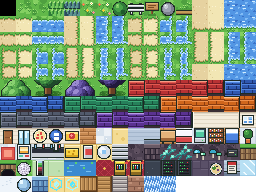
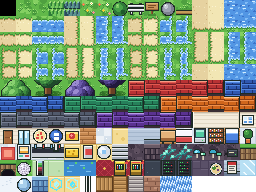
Ruta 3: vallas en los bordes de la montaña y escaleras bajo el camino hacia el césped de abajo
Claude-Session: https://claude.ai/code/session_018v1fAZrQHSEnPWssP3zxe4

Changed region(s): [[0.3125, 0.9062, 0.75, 1.0]]

diff --git a/src/game/world/maps.ts b/src/game/world/maps.ts
@@ -362,11 +362,11 @@ add(casa("casa-petri", "Casa de Ciudad Petri", { to: "ciudad-petri", x: 18, y: 1
   b.ascii([
     "%%%%%%%%**%%%%%%%%%%TTTTTTTTTTTTTTTTTTTTTTTT",
     "%%%%%%%%**%%%%%%%%%%TTTTTTTTTTTTTTTTTTTTTTTT",
-    "pppppppp~~ppppppppppTT.....k.........k....TT",
-    "pppppppp~~ppppppppppTT.f...k.........k....TT",
-    "pppppppp==ppppppppppTT.....k.........k....TT",
-    "pppppppp~~ppppppppppTT.....k.........k....TT",
-    "pppppppp~~ppppppppppTT.....k.........k....TT",
+    "pppppppp~~ppppppppp!TT.....k.........k....TT",
+    "pppppppp~~ppppppppp!TT.f...k.........k....TT",
+    "pppppppp==ppppppppp!TT.....k.........k....TT",
+    "pppppppp~~ppppppppp!TT.....k.........k....TT",
+    "pppppppp~~ppppppppp!TT.....k.........k....TT",
     "%%%%%%%%**%%%%%^%%%%TT.....k.........k....TT",
     "%%%%%%%%**%%%%%^%%%%.......lllllppllll....TT",
     "pppppppp~~pppppppppp....ggg.ggggppgggg....TT",
@@ -376,16 +376,16 @@ add(casa("casa-petri", "Casa de Ciudad Petri", { to: "ciudad-petri", x: 18, y: 1
     "pppppppp~~pppppppppplllpllllllllppllggggg.TT",
     "pppppppp~~ppppppppppppppppppppppppppgggggppp",
     "%%%%^%%%**%%%%%%%%%%ppppppppppppppppgggggppp",
-    "%%O%^%%%**%%%%%%%%%%TTkkkkkkkkkkkkkkggggg.TT",
-    "pppppppp~~ppppppppppTT............f.......TT",
-    "pppppppp~~ppppppppppTT....gggggggg..TT....TT",
-    "pppppppp~~ppppppppppTT....gggggggg..TT....TT",
-    "pppppppp~~ppppppppppTT....gggggggg......f.TT",
-    "pppppppp==ppppppppppTT..f.gggggggg........TT",
-    "pppppppp~~ppppppppppTT........TT......TT..TT",
-    "pppppppp~~ppppppppppTTgggg....TT...f..TT..TT",
-    "pppppppp~~ppppppppppTTgggg..f.............TT",
-    "pppppppp~~ppppppppppTTgggg................TT",
+    "%%O%^%%%**%%%%%%%%%%TTAAAA^AAAAAAAAAA^AAAATT",
+    "pppppppp~~ppppppppp!TT............f.......TT",
+    "pppppppp~~ppppppppp!TT....gggggggg..TT....TT",
+    "pppppppp~~ppppppppp!TT....gggggggg..TT....TT",
+    "pppppppp~~ppppppppp!TT....gggggggg......f.TT",
+    "pppppppp==ppppppppp!TT..f.gggggggg........TT",
+    "pppppppp~~ppppppppp!TT........TT......TT..TT",
+    "pppppppp~~ppppppppp!TTgggg....TT...f..TT..TT",
+    "pppppppp~~ppppppppp!TTgggg..f.............TT",
+    "pppppppp~~ppppppppp!TTgggg................TT",
     "%%%%%%%%**%%%%%%%%%%TTTTTTTTTTTTTTTTTTTTTTTT",
     "%%%%%%%%**%%%%%%%%%%TTTTTTTTTTTTTTTTTTTTTTTT",
   ]);

diff --git a/src/game/world/builder.ts b/src/game/world/builder.ts
@@ -57,7 +57,7 @@ export const LEGEND: Record<string, string> = {
   Y: "suelo_gimnasio", e: "estanteria", t: "mesa", c: "mostrador", P: "pc", b: "cama", n: "planta", a: "alfombra",
   i: "incubadora", B: "poyata", M: "microscopio", Q: "queso", C: "lata", K: "tanque", E: "escaleras", S: "cartel",
   H: "hielo", y: "nieve", U: "roca_hielo", R: "pared_hielo",
-  "=": "puente_h", "|": "puente_v", "^": "escalon", "%": "risco",
+  "=": "puente_h", "|": "puente_v", "^": "escalon", "%": "risco", "!": "valla_v",
   x: "suelo_casino", N: "suelo_tecnico", F: "suelo_torre", I: "placa_contaminada", J: "poster",
   u: "suelo_cueva", X: "pared_cueva", d: "disco_duro", A: "acantilado", O: "cueva_entrada", Z: "winogradsky", j: "suelo_invernadero",
 };
@@ -163,7 +163,7 @@ export function tileAt(m: MapDef, x: number, y: number, frame = 0): string {
   }
   if (ch === "~" || ch === "p" || ch === "s") {
     // vecinos que no llevan borde de césped: en la montaña, riscos, escalones, puentes y cascadas
-    const sinBorde = ch === "p" ? "%^=|*O~s" : ch === "~" ? "=|*%p" : ch === "s" ? "%^=|*O~p" : "";
+    const sinBorde = ch === "p" ? "%^=|*O~s!" : ch === "~" ? "=|*%p" : ch === "s" ? "%^=|*O~p" : "";
     const same = (xx: number, yy: number) => { const c = m.grid[yy]?.[xx]; return c === undefined || c === ch || sinBorde.includes(c) || (ch === "p" && (c.startsWith("@muro_puerta") || c === "@puerta_hd")); };
     const mask = (same(x, y - 1) ? 0 : 1) | (same(x + 1, y) ? 0 : 2) | (same(x, y + 1) ? 0 : 4) | (same(x - 1, y) ? 0 : 8);
     if (ch === "~") return `agua_${mask}_${frame % 64 < 32 ? 0 : 1}`;

diff --git a/src/game/gfx.ts b/src/game/gfx.ts
@@ -47,12 +47,12 @@ export class Gfx {
 
   /** Casilla de 16 px. Si se da su posición en el mapa (cx, cy) y hay terreno HD, usa la textura nueva
    *  (el cuarto que toca de su bloque de 2×2) y, para objetos sobre césped, césped HD debajo. */
-  tile(name: string, x: number, y: number, cx?: number, cy?: number) {
+  tile(name: string, x: number, y: number, cx?: number, cy?: number, suelo = "hierba") {
     if (cx !== undefined && cy !== undefined && IMG.terreno_hd) {
       const q = (((cx % 2) + 2) % 2) + (((cy % 2) + 2) % 2) * 2;
       const hd = TERR.index[`${name}#${q}`], obj = TERR.index[`obj:${name}`];
       if (hd !== undefined) { this.terr(hd, x, y); return; }
-      if (obj !== undefined) { this.terr(TERR.index[`hierba#${q}`], x, y); this.terr(obj, x, y); return; }
+      if (obj !== undefined) { this.terr(TERR.index[`${suelo}#${q}`] ?? TERR.index[`hierba#${q}`], x, y); this.terr(obj, x, y); return; }
     }
     const i = TILES[name];
     if (i === undefined) return;

diff --git a/src/game/scenes/overworld.ts b/src/game/scenes/overworld.ts
@@ -385,7 +385,9 @@ export class Overworld implements Scene {
         if (t === "hierba_oscura" && TILES[t] === undefined) t = "hierba";
       }
       if (t === "bloque" || t === "puerta_hd") t = "hierba";
-      g.tile(t, x * 16 - cx, y * 16 - cy, x, y);
+      // la valla de los bordes de la montaña va sobre la tierra de la terraza, no sobre césped
+      const tierra = t === "valla_v" && [[0, 1], [0, -1], [1, 0], [-1, 0]].some(([dx, dy]) => this.map.grid[y + dy]?.[x + dx] === "p");
+      g.tile(t, x * 16 - cx, y * 16 - cy, x, y, tierra ? "camino" : "hierba");
     }
     for (const [n, x, y] of trees) drawProp(g, n, x - 1, y - 2, 34);
     // objetos del suelo

diff --git a/tools/rutas/rutas_v2.py b/tools/rutas/rutas_v2.py
@@ -5,7 +5,7 @@ import json, sys
 from pathlib import Path
 from collections import deque
 
-SOLIDO = set("T%A~*klrSvO") | {"#"}
+SOLIDO = set("T%A~*klrSvO!") | {"#"}
 
 def lienzo(w, h, c="."): return [[c] * w for _ in range(h)]
 def fill(g, x, y, w, h, c):
@@ -87,10 +87,12 @@ def ruta3():
     fill(g, 20, 0, 24, 2, "T"); fill(g, 42, 0, 2, 28, "T"); fill(g, 20, 26, 24, 2, "T")
     fill(g, 20, 14, 24, 2, "p")                                           # camino principal hasta la salida este
     fill(g, 36, 13, 5, 4, "g")                                            # hierba densa justo antes de la salida
-    fill(g, 20, 13, 16, 1, "l"); fill(g, 20, 16, 16, 1, "k")
+    fill(g, 20, 13, 16, 1, "l"); fill(g, 22, 16, 20, 1, "A")              # el prado de abajo está más bajo
+    g[16][26] = "^"; g[16][37] = "^"                                      # escaleras para bajar al césped
     g[13][23] = "p"; g[13][32] = "p"; g[13][33] = "p"
     fill(g, 20, 2, 7, 11, ".")                                            # claro
     fill(g, 20, 2, 2, 6, "T"); fill(g, 20, 16, 2, 10, "T")
+    fill(g, 19, 2, 1, 5, "!"); fill(g, 19, 17, 1, 9, "!")                # vallas en el borde de las terrazas, junto a los árboles
     # casa con jardín vallado al noreste: la puerta queda en (32, 7)
     fill(g, 27, 2, 1, 7, "k"); fill(g, 37, 2, 1, 7, "k"); fill(g, 27, 8, 11, 1, "l"); g[8][32] = "p"; g[8][33] = "p"
     fill(g, 32, 9, 2, 4, "p")

diff --git a/tools/art/tiles.py b/tools/art/tiles.py
@@ -169,6 +169,14 @@ def fence():
     for y in (5, 9):
         t.hline(0, 15, y - 1, O); t.hline(0, 15, y, H("#f8f8f8")); t.hline(0, 15, y + 1, H("#c8ccd4")); t.hline(0, 15, y + 2, O)
     return t
+def fence_v():
+    """Valla vista de lado (tramo vertical): postes arriba y abajo y dos largueros verticales. Fondo transparente."""
+    t = T()
+    for y in (2, 11):
+        t.rect(5, y - 1, 10, y + 3, O); t.rect(6, y, 9, y + 2, H("#ffffff")); t.hline(6, 9, y + 2, H("#c8ccd4"))
+    for x in (6, 9):
+        t.vline(x - 1, 0, 15, O); t.vline(x, 0, 15, H("#f8f8f8")); t.vline(x + 1, 0, 15, O)
+    return t
 def sign():
     t = grass(14)
     t.rect(7, 9, 8, 15, H("#6a4024")); t.vline(7, 9, 15, H("#8a5a32"))
@@ -538,6 +546,7 @@ def build():
                   "servidor0": server(0), "servidor1": server(1), "suelo_torre": tower_floor(), "placa_contaminada": cont_plate(), "poster": poster(),
                   "hielo": ice(), "nieve": snow(), "roca_hielo": ice_rock(), "pared_hielo": ice_wall(), "holo0": holo_capsid(0), "holo1": holo_capsid(1)})
     # al final, para no mover los índices de los anteriores
+    tiles.update({"valla_v": fence_v()})
     tiles.update({"puente_h": bridge(False), "puente_v": bridge(True), "escalon": stone_steps(), "risco": rock_cliff(),
                   "cascada0": waterfall(0), "cascada1": waterfall(1)})
     names = list(tiles)

diff --git a/tools/art/terreno_hd.py b/tools/art/terreno_hd.py
@@ -187,7 +187,7 @@ def main():
 
     montana(out)
     # objetos sobre césped: sin el césped viejo (se dibujan encima del nuevo)
-    objetos = ["flores0", "flores1", "seto", "valla", "cartel", "roca", "bordillo", "acantilado", "cueva_entrada", "hifas_bloqueo"]
+    objetos = ["flores0", "flores1", "seto", "valla", "valla_v", "cartel", "roca", "bordillo", "acantilado", "cueva_entrada", "hifas_bloqueo"]
     rgba: dict[str, np.ndarray] = {}
     for n in objetos:
         if n not in tiles_meta: continue

diff --git a/PROGRESO.md b/PROGRESO.md
@@ -170,5 +170,7 @@ Roadmap: 7 fases (0–6). Cada fase termina en una puerta.
 
 - Ruta 3: las tres terrazas ocupan todo el ancho del desfiladero y entre ellas solo hay la pared (2 casillas: labio y base), que cruza de lado a lado como un escalón; árboles separan las terrazas alta y baja del prado (que está al nivel de la media). Por debajo del mapa se considera terreno más bajo (el borde inferior es una pared que cae). La boca de la cueva va integrada en la pared.
 
+- Ruta 3: deshechas las laderas laterales. Vallas verticales (`!`, `valla_v`, sobre la tierra de la terraza) en el borde este de las terrazas alta y baja, junto a los árboles; bajo el camino del prado, un desnivel (acantilado de hierba) con dos escaleras para bajar al césped de abajo, que está al nivel de la terraza baja (en lugar de los setos redondos).
+
 ## Siguiente tarea
 Pendiente del GDD: Modo Torneo y mochila bloqueada en Difícil, objetos equipados, variocolor y RandomLocke. Posibles mejoras: más diálogos y misiones secundarias, mejorar la calidad de los sprites (Microos diseñados por especie, retratos limpios, pasos), música y efectos.
